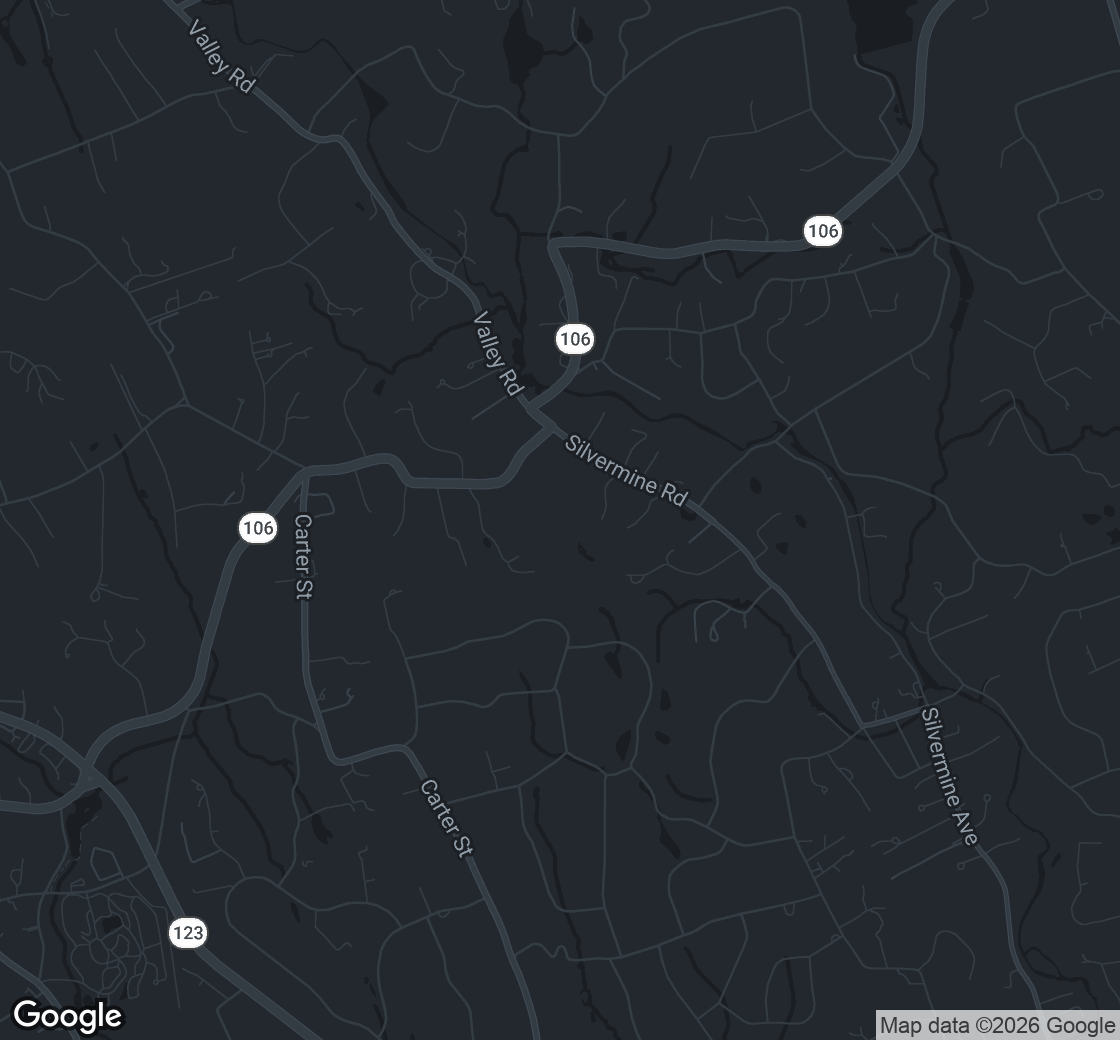
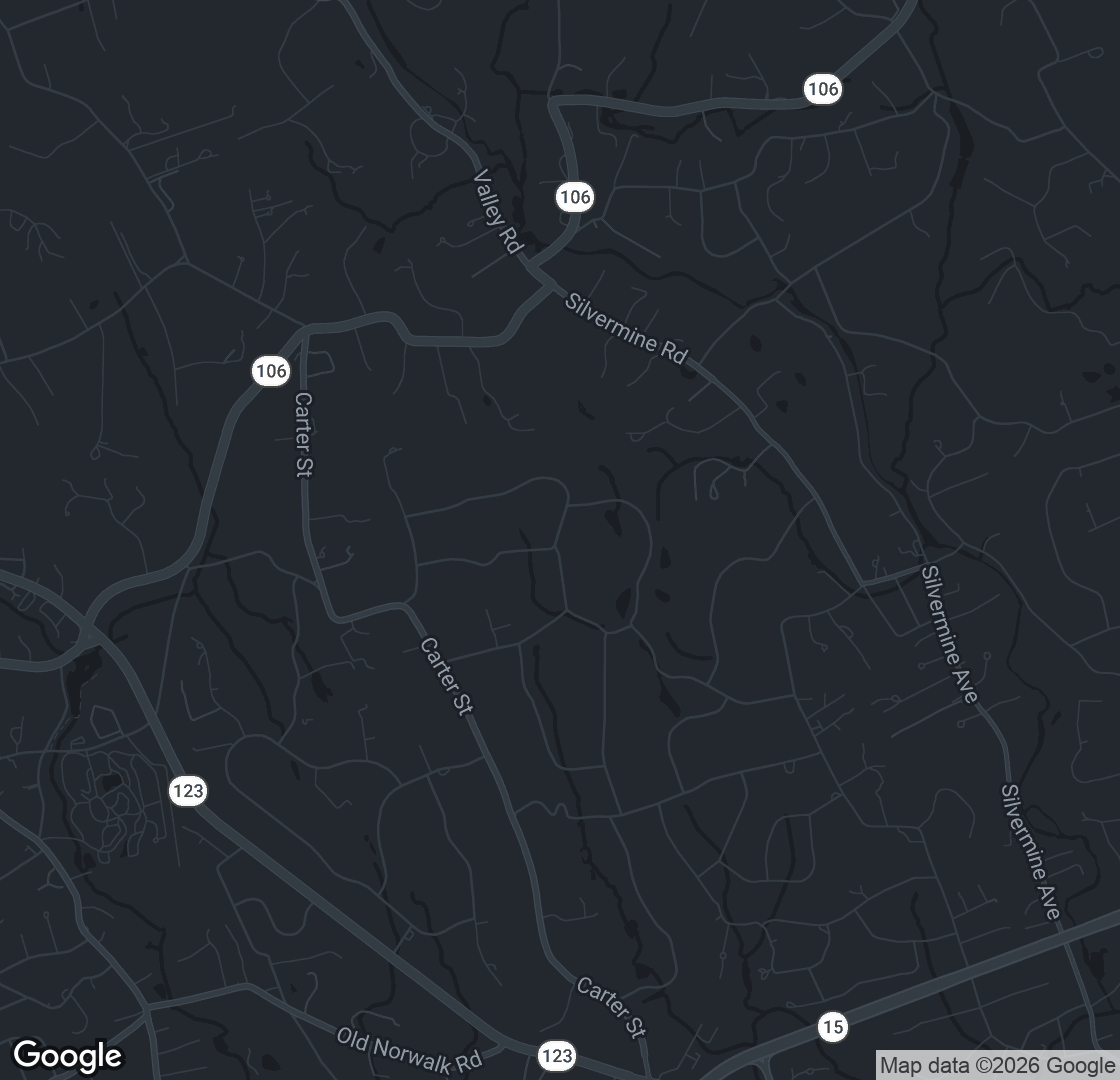
The three times on the loop itself
Fill dwell at the hydrant, dump dwell at the pond, and travel on the run — an
officer should not have to read a table to see where the minutes go.

diff --git a/public/demo/surfaces.html b/public/demo/surfaces.html
@@ -212,6 +212,31 @@ svg{display:block;width:100%;height:auto;background:var(--sunk);border-radius:4p
 .rn span,.rp span{font-size:9px;color:var(--ink3);letter-spacing:.06em}
 .rh{flex:1;min-width:56px;text-align:center;font-family:var(--mono);font-size:12px;font-weight:700;
   color:var(--ink2);border-top:3px solid #EF8200;padding-top:5px;margin:0 2px}
+.scrim{position:fixed;inset:0;background:rgba(10,12,15,.6);opacity:0;pointer-events:none;transition:opacity .18s;z-index:40}
+.scrim.on{opacity:1;pointer-events:auto}
+.drawer{position:fixed;top:0;right:0;height:100%;width:min(520px,94vw);background:var(--panel);
+  border-left:1px solid var(--rule2);transform:translateX(100%);transition:transform .2s ease;
+  z-index:41;overflow-y:auto;padding:16px 18px 40px}
+.drawer.on{transform:none}
+.dhead{display:flex;justify-content:space-between;align-items:flex-start;border-bottom:1px solid var(--rule);padding-bottom:11px;margin-bottom:13px}
+.dtitle{font-family:var(--mono);font-size:14px;font-weight:700;letter-spacing:.06em}
+.dsub{font-size:11px;color:var(--ink3);margin-top:3px}
+.dclose{background:none;border:0;color:var(--ink3);font-size:24px;cursor:pointer;line-height:1}
+.dsec{font-family:var(--mono);font-size:10.5px;letter-spacing:.1em;color:var(--ink2);margin:15px 0 7px;display:flex;align-items:center;gap:7px}
+.dt{margin-left:auto;color:var(--ink3);font-size:10px}
+.dby{font-size:8.5px;padding:2px 5px;border-radius:2px;letter-spacing:.06em}
+.dby.code{background:rgba(140,193,210,.13);color:var(--ink3)}
+.dby.astra{background:rgba(239,130,0,.16);color:var(--orange)}
+.dby.sol{background:rgba(123,94,167,.2);color:#a08cc4}
+.dtool{font-family:var(--mono);font-size:10.5px;color:var(--ink3);padding:3px 0 3px 9px;border-left:2px solid var(--rule);line-height:1.45}
+.dpick{font-size:12px;padding:6px 0 6px 9px;border-left:2px solid var(--orange);margin-bottom:3px}
+.dpick b{font-family:var(--mono);color:var(--ink2);margin-right:7px}
+.dg{display:block;font-family:var(--mono);font-size:9.5px;color:var(--ink3);margin-top:2px}
+.dchk{font-family:var(--mono);font-size:11px;padding:5px 9px;border-radius:3px;margin-bottom:4px;background:var(--sunk)}
+.dchk.bad{color:#e08a78}.dchk.warn{color:var(--orange)}.dchk.ok{color:var(--green)}
+.dch{font-size:12px;padding:8px 10px;border-radius:3px;margin-bottom:6px;line-height:1.45}
+.dch.block{background:rgba(200,85,61,.13);border:1px solid var(--red);color:#e8a091}
+.dch.q{background:var(--sunk);border:1px solid var(--rule2);color:var(--ink2)}
 .alarm{margin-top:11px;background:rgba(200,85,61,.12);border:1px solid var(--red);color:#e8a091;
   border-radius:4px;padding:9px 12px;font-size:12.5px;line-height:1.45}
 .laypair{display:flex;gap:12px;align-items:flex-end;margin-top:4px}
@@ -414,23 +439,26 @@ details[open].card summary::after{content:"  \2212"}
     <div class="card">
       <h2>The loop</h2>
       <div class="maplay">
-        <img src="shuttle-map.png" alt="The one-way tanker loop: Valley Rd, Silvermine, Heather, Carter, back to Silvermine">
-        <svg viewBox="0 0 560 520" class="ov">
-          <path d="M258.8 205.4 L262.3 208.7 L265.4 211.7 L269.2 214.8 L276.7 220.6 L286.0 227.4 L293.2 231.7 L301.7 236.2 L314.4 243.2 L322.1 246.5 L333.4 250.9 L334.8 251.5 L339.4 254.4 L342.0 256.2 L347.6 259.4 L349.6 252.4 L344.4 257.6 L353.0 264.4 L355.8 266.9 L363.2 273.3 L368.0 278.3 L370.0 280.7 L371.2 282.9 L374.6 288.0 L379.8 293.6 L385.6 298.4 L388.2 301.2 L389.4 302.8 L391.9 306.7 L394.9 310.9 L399.6 316.4 L402.7 320.8 L407.9 318.6 L411.7 314.4 L408.2 309.5 L402.3 302.4 L398.4 296.4 L395.5 292.9 L393.0 290.3 L390.1 287.8 L383.8 281.9 L382.7 280.7 L379.1 274.4 L376.1 270.9 L372.7 267.3 L367.1 262.1 L359.9 255.9 L351.8 249.6 L348.3 247.1 L345.5 245.2 L340.3 241.9 L337.5 240.6 L326.2 236.3 L319.4 233.4 L307.0 226.5 L298.5 222.1 L292.2 218.3 L283.3 211.8 L281.5 210.3 L275.1 207.3 L269.4 211.1 L265.9 214.3 L261.7 218.0 L258.1 221.1 L255.5 224.1 L253.0 228.5 L250.8 232.2 L249.4 234.1 L247.4 235.4 L245.6 235.6 L234.5 235.8 L218.0 235.5 L209.0 235.5 L207.6 235.3 L207.0 235.2 L207.0 235.0 L206.7 234.7 L204.3 230.5 L202.5 227.9 L200.2 225.6 L197.7 224.1 L194.2 223.1 L189.9 223.1 L185.4 223.9 L172.1 227.8 L166.9 228.7 L164.5 228.8 L155.6 229.2 L152.1 236.3 L157.4 240.1 L165.0 239.8 L168.5 239.6 L174.9 238.4 L188.2 234.5 L190.9 234.1 L192.9 234.0 L193.6 234.3 L193.1 234.0 L194.0 234.9 L194.9 236.3 L197.4 240.5 L199.0 242.6 L201.8 244.9 L205.4 246.0 L208.3 246.4 L210.0 246.5 L217.8 246.5 L234.4 246.8 L246.1 246.6 L251.5 245.6 L256.7 242.3 L260.0 238.3 L262.5 234.0 L264.6 230.3 L265.7 229.1 L276.8 219.2 L281.0 212.3 L276.1 206.2 L272.7 203.4 L267.4 198.4 L266.5 197.5" stroke="#EF8200" stroke-width="6" fill="none" stroke-linejoin="round"/>
-          <g transform="translate(347.6,259.4) rotate(-26.4)"><path d="M-11 -9 L13 0 L-11 9 Z" fill="#EF8200"/></g><g transform="translate(382.7,280.7) rotate(-122.5)"><path d="M-11 -9 L13 0 L-11 9 Z" fill="#EF8200"/></g><g transform="translate(249.4,234.1) rotate(136.9)"><path d="M-11 -9 L13 0 L-11 9 Z" fill="#EF8200"/></g><g transform="translate(190.9,234.1) rotate(-5.7)"><path d="M-11 -9 L13 0 L-11 9 Z" fill="#EF8200"/></g><g transform="translate(265.7,229.1) rotate(-42.3)"><path d="M-11 -9 L13 0 L-11 9 Z" fill="#EF8200"/></g>
-          <circle cx="262.5" cy="201.4" r="10" fill="#c8553d" stroke="#1c1f25" stroke-width="3"/>
-          <circle cx="348.8" cy="251.8" r="10" fill="#5aabb3" stroke="#1c1f25" stroke-width="3"/>
-          <circle cx="407.9" cy="318.6" r="6" fill="#8f9aa4" stroke="#1c1f25" stroke-width="2"/>
-          <circle cx="152.1" cy="236.3" r="6" fill="#8f9aa4" stroke="#1c1f25" stroke-width="2"/>
+        <img src="shuttle-map.png" alt="The one-way tanker loop through Heather, Weeburn, Snowberry, Buttery and Carter">
+        <svg viewBox="0 0 560 540" class="ov">
+          <path d="M259.1 135.0 L262.7 138.4 L265.8 141.3 L269.6 144.4 L277.0 150.2 L286.4 157.0 L293.5 161.3 L302.1 165.8 L314.8 172.9 L322.5 176.1 L333.8 180.5 L335.2 181.1 L339.8 184.0 L342.4 185.8 L347.9 189.0 L349.9 182.0 L344.7 187.2 L353.3 194.1 L356.2 196.5 L363.5 202.9 L368.4 207.9 L370.4 210.3 L371.6 212.5 L375.0 217.7 L380.2 223.2 L385.9 228.0 L388.5 230.9 L389.8 232.4 L392.3 236.3 L395.2 240.5 L399.9 246.0 L403.1 250.4 L403.2 246.2 L403.2 245.2 L400.2 247.6 L397.2 250.7 L395.1 253.2 L391.8 258.1 L388.7 263.0 L386.6 266.4 L383.3 272.2 L382.1 273.9 L381.2 274.9 L382.0 274.5 L380.9 274.4 L374.9 273.7 L369.7 274.3 L365.5 275.8 L361.1 278.9 L356.8 283.1 L353.9 287.9 L352.4 292.6 L350.9 301.3 L350.0 306.8 L349.9 311.1 L350.5 314.5 L352.9 326.0 L353.4 328.4 L353.6 329.3 L352.7 332.5 L351.1 335.5 L349.3 345.9 L359.5 351.6 L356.6 350.5 L356.6 350.5 L356.3 350.8 L350.8 352.3 L347.9 352.8 L343.6 353.4 L340.4 354.8 L336.0 357.5 L332.8 360.4 L330.1 364.5 L329.1 368.9 L329.0 373.0 L329.7 378.4 L332.4 385.9 L336.1 396.6 L338.8 392.2 L332.4 394.6 L322.4 398.1 L311.8 401.5 L309.7 402.3 L307.9 402.3 L304.5 402.9 L302.8 402.9 L299.5 402.7 L295.8 402.9 L288.1 403.5 L286.4 403.4 L287.5 403.8 L288.3 404.6 L288.9 405.6 L287.6 401.4 L284.7 397.8 L279.2 396.7 L274.8 399.6 L273.0 403.4 L274.1 402.4 L278.4 402.2 L278.1 401.5 L275.8 398.7 L272.4 396.4 L268.1 395.3 L263.4 396.4 L257.3 400.3 L255.2 401.5 L258.0 402.4 L260.1 403.4 L258.9 399.4 L258.3 397.5 L256.5 392.4 L254.8 388.4 L248.6 375.5 L238.3 352.6 L236.1 348.2 L232.3 341.9 L213.8 309.5 L209.2 302.3 L205.7 299.2 L200.8 297.3 L196.5 297.4 L193.0 298.1 L186.5 299.8 L177.6 302.7 L171.1 304.6 L170.6 304.7 L170.4 304.5 L171.0 305.2 L169.9 302.8 L165.5 288.4 L163.8 283.9 L160.7 273.6 L159.2 268.7 L158.5 262.7 L158.4 257.7 L158.3 251.7 L157.9 241.1 L157.9 230.7 L157.8 217.4 L157.2 184.7 L157.3 180.2 L157.9 174.7 L158.4 170.8 L158.5 166.9 L156.0 170.1 L157.7 169.7 L165.4 169.4 L168.8 169.2 L175.2 168.0 L188.6 164.1 L191.3 163.7 L193.3 163.7 L194.0 163.9 L193.5 163.6 L194.3 164.5 L195.3 165.9 L197.7 170.1 L199.3 172.2 L202.2 174.5 L205.7 175.7 L208.7 176.1 L210.3 176.1 L218.2 176.1 L234.8 176.4 L246.5 176.2 L251.9 175.2 L257.1 171.9 L260.3 167.9 L262.9 163.6 L265.0 159.9 L266.0 158.7 L277.1 148.8 L281.4 141.9 L276.5 135.8 L273.0 133.0 L267.7 128.1 L266.8 127.1" stroke="#EF8200" stroke-width="6" fill="none" stroke-linejoin="round"/>
+          <g transform="translate(347.9,189.0) rotate(-26.4)"><path d="M-11 -9 L13 0 L-11 9 Z" fill="#EF8200"/></g><g transform="translate(381.2,274.9) rotate(100.8)"><path d="M-11 -9 L13 0 L-11 9 Z" fill="#EF8200"/></g><g transform="translate(329.0,373.0) rotate(86.3)"><path d="M-11 -9 L13 0 L-11 9 Z" fill="#EF8200"/></g><g transform="translate(255.2,401.5) rotate(70.6)"><path d="M-11 -9 L13 0 L-11 9 Z" fill="#EF8200"/></g><g transform="translate(157.9,230.7) rotate(-90.3)"><path d="M-11 -9 L13 0 L-11 9 Z" fill="#EF8200"/></g><g transform="translate(246.5,176.2) rotate(-3.9)"><path d="M-11 -9 L13 0 L-11 9 Z" fill="#EF8200"/></g>
+          <circle cx="262.9" cy="131.0" r="10" fill="#c8553d" stroke="#1c1f25" stroke-width="3"/>
+          <circle cx="349.1" cy="181.5" r="10" fill="#5aabb3" stroke="#1c1f25" stroke-width="3"/>
+          <circle cx="408.3" cy="248.3" r="5" fill="#8f9aa4"/>
+          <circle cx="329.5" cy="401.7" r="5" fill="#8f9aa4"/>
+          <circle cx="152.4" cy="165.9" r="5" fill="#8f9aa4"/>
           <g class="mk">
-            <text x="248" y="197" text-anchor="end" style="fill:#e08a78">DUMP</text>
-            <text x="248" y="211" text-anchor="end" class="mkS">closed Valley Rd</text>
-            <text x="364" y="250" style="fill:#5aabb3">FILL 1-18</text>
-            <text x="364" y="264" class="mkS">856 gpm</text>
-            <text x="419" y="323" class="mkS">HEATHER</text>
-            <text x="141" y="240" text-anchor="end" class="mkS">CARTER</text>
-            <text x="14" y="24">ONE WAY &middot; 2.99 mi</text>
-            <text x="14" y="42" class="mkS">always forward &middot; never reverse, never pass</text>
+            <text x="248" y="128" text-anchor="end" style="fill:#e08a78">DUMP</text>
+            <text x="248" y="142" text-anchor="end" class="mkS">closed Valley Rd</text>
+            <text x="364" y="179" style="fill:#5aabb3">FILL 1-18</text>
+            <text x="364" y="193" class="mkS">856 gpm</text>
+            <text x="418" y="252" class="mkS">HEATHER</text>
+            <text x="329" y="418" text-anchor="middle" class="mkS">BUTTERY</text>
+            <text x="142" y="170" text-anchor="end" class="mkS">CARTER</text>
+            <text x="14" y="24">ONE WAY &middot; 4.27 mi</text>
+            <text x="14" y="42" class="mkS">Silvermine &middot; Heather &middot; Weeburn &middot; Snowberry &middot; Buttery &middot; Carter</text>
+            <text x="14" y="58" class="mkS">always forward &middot; never reverse, never pass</text>
           </g>
         </svg>
       </div>
@@ -442,22 +470,22 @@ details[open].card summary::after{content:"  \2212"}
       <div class="card" style="margin-bottom:14px">
         <h2>Turnaround</h2>
         <div class="two">
-          <div><div class="tv">4</div><div class="tk">TANKERS</div></div>
-          <div><div class="tv">13.3</div><div class="tk">MIN LOOP</div></div>
+          <div><div class="tv">5</div><div class="tk">TANKERS</div></div>
+          <div><div class="tv">16.5</div><div class="tk">MIN LOOP</div></div>
         </div>
-        <div class="tsub">753 gpm delivered &middot; 680 needed &middot; margin +73</div>
+        <div class="tsub">757 gpm delivered &middot; 680 needed &middot; five tankers</div>
       </div>
       <div class="card">
         <h2>The cycle &middot; every row from a rate</h2>
         <table>
           <tr><th>leg</th><th class="r">min</th><th class="dim">from</th></tr>
-          <tr><td>travel, the whole loop</td><td class="r">6.70</td><td class="dim">routed, 2.99 mi</td></tr>
+          <tr><td>travel, the whole loop</td><td class="r">9.93</td><td class="dim">routed, 4.27 mi</td></tr>
           <tr><td>fill at 1-18</td><td class="r">2.92</td><td class="dim">2,500 &divide; 856 gpm</td></tr>
           <tr><td>dump into the pond</td><td class="r">1.67</td><td class="dim">2,500 &divide; 1,500 gpm</td></tr>
           <tr><td>manoeuvre, both ends</td><td class="r">2.00</td><td class="dim">60 s each</td></tr>
-          <tr><td><b>LOOP</b></td><td class="r"><b>13.29</b></td><td class="dim">the sum</td></tr>
+          <tr><td><b>LOOP</b></td><td class="r"><b>16.52</b></td><td class="dim">the sum</td></tr>
         </table>
-        <div class="tsub">one tanker = 2,500 &divide; 13.29 = <b>188 gpm</b></div>
+        <div class="tsub">one tanker = 2,500 &divide; 16.52 = <b>151 gpm</b></div>
         <table style="margin-top:10px">
           <tr><th>tankers</th><th class="r">gpm</th><th class="r">hydrant busy</th></tr>
           <tr><td>3</td><td class="r bad">564</td><td class="r">66%</td></tr>
@@ -534,6 +562,49 @@ details[open].card summary::after{content:"  \2212"}
   </div>
 </section>
 
+<div class="scrim" id="scrim"></div>
+<aside class="drawer" id="drawer" aria-label="What happened in the first 80 seconds">
+  <div class="dhead">
+    <div><div class="dtitle">THE FIRST 80 SECONDS</div>
+      <div class="dsub">proposed by gpt-6-astra &middot; challenged by gpt-5.6-sol in a clean context</div></div>
+    <button class="dclose" id="dclose">&times;</button>
+  </div>
+
+  <div class="dsec">1 &middot; ASSEMBLE <span class="dby code">CODE</span><span class="dt">0.6 s</span></div>
+  <div class="dtool">96 facts from Firestore, each with a unit and a source</div>
+  <div class="dtool">route(dump, fill) &rarr; 2.99 mi loop &middot; F.RT.loop</div>
+  <div class="dtool">hydrant_side_of_road(1-18) &rarr; LEFT &middot; 7.1 m &middot; F.HYD.1-18.side</div>
+  <div class="dtool">vision(satellite) &rarr; driveway traced, 20 vertices &middot; F.SITE.drive_polyline</div>
+
+  <div class="dsec">2 &middot; PROPOSE <span class="dby astra">GPT-6 ASTRA</span><span class="dt">88.9 s</span></div>
+  <div class="dpick"><b>supply_mode</b> shuttle_nurse
+    <span class="dg">F.HYD.1-21.status &middot; F.APP.hose_first_alarm_ft &middot; F.RT.loop.cycle_min</span></div>
+  <div class="dpick"><b>lay_side_drive</b> <span class="warn">NEEDS A MEASUREMENT</span>
+    <span class="dg">missing: F.SITE.drive_edge_clearances, F.SITE.pump_connection_side</span></div>
+  <div class="dpick"><b>lay_side_street</b> <span class="warn">NEEDS A MEASUREMENT</span>
+    <span class="dg">missing: F.SITE.drive_side_of_street</span></div>
+
+  <div class="dsec">3 &middot; CHECK <span class="dby code">CODE</span><span class="dt">0.001 s</span></div>
+  <div class="dchk bad">BLOCK &nbsp;hydrant &mdash; 1-21 red-tagged, 1-07 and 1-09 under 680 gpm</div>
+  <div class="dchk warn">UNGRADED &nbsp;draft &mdash; static lift not surveyed &middot; NFPA 1142 caps at 10 ft</div>
+  <div class="dchk ok">PASS &nbsp;shuttle &mdash; 753 gpm against 680 on four tankers</div>
+
+  <div class="dsec">4 &middot; CHALLENGE <span class="dby sol">GPT-5.6-SOL &middot; CLEAN CONTEXT</span><span class="dt">48.1 s</span></div>
+  <div class="dch block"><b>BLOCK &middot; C7_delivery_exceeds_source</b><br>
+    A closed shuttle cannot deliver more than its fill source replenishes. 949 gpm was claimed
+    against a source tested at 855.87 gpm.
+    <span class="dg">F.HYD.1-18.gpm &middot; F.RT.dump.delivered_gpm</span></div>
+  <div class="dch q"><b>QUESTION &middot; C6_stale_as_current</b><br>
+    That 855.87 figure is 696 days old and is the sole numerical basis for the fill site.
+    <span class="dg">F.HYD.1-18.flow_test_days</span></div>
+  <div class="dch q"><b>BLOCK &middot; C5_synthetic_as_measured</b><br>
+    Every tanker capacity is SYNTHETIC. The count is derived from an assumed 2,500 gal.
+    <span class="dg">F.TANKER.capacity_source</span></div>
+
+  <div class="dsec">5 &middot; PRESENT <span class="dby code">CODE</span><span class="dt">0 s</span></div>
+  <div class="dtool">overall_status: BLOCK &middot; 7 code checks &middot; 4 challenges kept</div>
+  <div class="dtool">a refused pick renders NEEDS A MEASUREMENT, never a blank and never a guess</div>
+</aside>
 <script>
 document.querySelectorAll('.tab').forEach(function(t){
   t.addEventListener('click',function(){

diff --git a/public/demo/index.html b/public/demo/index.html
@@ -237,6 +237,7 @@ svg{display:block;width:100%;height:auto;background:var(--sunk);border-radius:4p
 .dch{font-size:12px;padding:8px 10px;border-radius:3px;margin-bottom:6px;line-height:1.45}
 .dch.block{background:rgba(200,85,61,.13);border:1px solid var(--red);color:#e8a091}
 .dch.q{background:var(--sunk);border:1px solid var(--rule2);color:var(--ink2)}
+.tm{font-family:var(--mono);font-size:12px;font-weight:700;fill:#EF8200}
 .alarm{margin-top:11px;background:rgba(200,85,61,.12);border:1px solid var(--red);color:#e8a091;
   border-radius:4px;padding:9px 12px;font-size:12.5px;line-height:1.45}
 .laypair{display:flex;gap:12px;align-items:flex-end;margin-top:4px}
@@ -439,23 +440,30 @@ details[open].card summary::after{content:"  \2212"}
     <div class="card">
       <h2>The loop</h2>
       <div class="maplay">
-        <img src="shuttle-map.png" alt="The one-way tanker loop: Valley Rd, Silvermine, Heather, Carter, back to Silvermine">
-        <svg viewBox="0 0 560 520" class="ov">
-          <path d="M258.8 205.4 L262.3 208.7 L265.4 211.7 L269.2 214.8 L276.7 220.6 L286.0 227.4 L293.2 231.7 L301.7 236.2 L314.4 243.2 L322.1 246.5 L333.4 250.9 L334.8 251.5 L339.4 254.4 L342.0 256.2 L347.6 259.4 L349.6 252.4 L344.4 257.6 L353.0 264.4 L355.8 266.9 L363.2 273.3 L368.0 278.3 L370.0 280.7 L371.2 282.9 L374.6 288.0 L379.8 293.6 L385.6 298.4 L388.2 301.2 L389.4 302.8 L391.9 306.7 L394.9 310.9 L399.6 316.4 L402.7 320.8 L407.9 318.6 L411.7 314.4 L408.2 309.5 L402.3 302.4 L398.4 296.4 L395.5 292.9 L393.0 290.3 L390.1 287.8 L383.8 281.9 L382.7 280.7 L379.1 274.4 L376.1 270.9 L372.7 267.3 L367.1 262.1 L359.9 255.9 L351.8 249.6 L348.3 247.1 L345.5 245.2 L340.3 241.9 L337.5 240.6 L326.2 236.3 L319.4 233.4 L307.0 226.5 L298.5 222.1 L292.2 218.3 L283.3 211.8 L281.5 210.3 L275.1 207.3 L269.4 211.1 L265.9 214.3 L261.7 218.0 L258.1 221.1 L255.5 224.1 L253.0 228.5 L250.8 232.2 L249.4 234.1 L247.4 235.4 L245.6 235.6 L234.5 235.8 L218.0 235.5 L209.0 235.5 L207.6 235.3 L207.0 235.2 L207.0 235.0 L206.7 234.7 L204.3 230.5 L202.5 227.9 L200.2 225.6 L197.7 224.1 L194.2 223.1 L189.9 223.1 L185.4 223.9 L172.1 227.8 L166.9 228.7 L164.5 228.8 L155.6 229.2 L152.1 236.3 L157.4 240.1 L165.0 239.8 L168.5 239.6 L174.9 238.4 L188.2 234.5 L190.9 234.1 L192.9 234.0 L193.6 234.3 L193.1 234.0 L194.0 234.9 L194.9 236.3 L197.4 240.5 L199.0 242.6 L201.8 244.9 L205.4 246.0 L208.3 246.4 L210.0 246.5 L217.8 246.5 L234.4 246.8 L246.1 246.6 L251.5 245.6 L256.7 242.3 L260.0 238.3 L262.5 234.0 L264.6 230.3 L265.7 229.1 L276.8 219.2 L281.0 212.3 L276.1 206.2 L272.7 203.4 L267.4 198.4 L266.5 197.5" stroke="#EF8200" stroke-width="6" fill="none" stroke-linejoin="round"/>
-          <g transform="translate(347.6,259.4) rotate(-26.4)"><path d="M-11 -9 L13 0 L-11 9 Z" fill="#EF8200"/></g><g transform="translate(382.7,280.7) rotate(-122.5)"><path d="M-11 -9 L13 0 L-11 9 Z" fill="#EF8200"/></g><g transform="translate(249.4,234.1) rotate(136.9)"><path d="M-11 -9 L13 0 L-11 9 Z" fill="#EF8200"/></g><g transform="translate(190.9,234.1) rotate(-5.7)"><path d="M-11 -9 L13 0 L-11 9 Z" fill="#EF8200"/></g><g transform="translate(265.7,229.1) rotate(-42.3)"><path d="M-11 -9 L13 0 L-11 9 Z" fill="#EF8200"/></g>
-          <circle cx="262.5" cy="201.4" r="10" fill="#c8553d" stroke="#1c1f25" stroke-width="3"/>
-          <circle cx="348.8" cy="251.8" r="10" fill="#5aabb3" stroke="#1c1f25" stroke-width="3"/>
-          <circle cx="407.9" cy="318.6" r="6" fill="#8f9aa4" stroke="#1c1f25" stroke-width="2"/>
-          <circle cx="152.1" cy="236.3" r="6" fill="#8f9aa4" stroke="#1c1f25" stroke-width="2"/>
+        <img src="shuttle-map.png" alt="The one-way tanker loop through Heather, Weeburn, Snowberry, Buttery and Carter">
+        <svg viewBox="0 0 560 540" class="ov">
+          <path d="M259.1 135.0 L262.7 138.4 L265.8 141.3 L269.6 144.4 L277.0 150.2 L286.4 157.0 L293.5 161.3 L302.1 165.8 L314.8 172.9 L322.5 176.1 L333.8 180.5 L335.2 181.1 L339.8 184.0 L342.4 185.8 L347.9 189.0 L349.9 182.0 L344.7 187.2 L353.3 194.1 L356.2 196.5 L363.5 202.9 L368.4 207.9 L370.4 210.3 L371.6 212.5 L375.0 217.7 L380.2 223.2 L385.9 228.0 L388.5 230.9 L389.8 232.4 L392.3 236.3 L395.2 240.5 L399.9 246.0 L403.1 250.4 L403.2 246.2 L403.2 245.2 L400.2 247.6 L397.2 250.7 L395.1 253.2 L391.8 258.1 L388.7 263.0 L386.6 266.4 L383.3 272.2 L382.1 273.9 L381.2 274.9 L382.0 274.5 L380.9 274.4 L374.9 273.7 L369.7 274.3 L365.5 275.8 L361.1 278.9 L356.8 283.1 L353.9 287.9 L352.4 292.6 L350.9 301.3 L350.0 306.8 L349.9 311.1 L350.5 314.5 L352.9 326.0 L353.4 328.4 L353.6 329.3 L352.7 332.5 L351.1 335.5 L349.3 345.9 L359.5 351.6 L356.6 350.5 L356.6 350.5 L356.3 350.8 L350.8 352.3 L347.9 352.8 L343.6 353.4 L340.4 354.8 L336.0 357.5 L332.8 360.4 L330.1 364.5 L329.1 368.9 L329.0 373.0 L329.7 378.4 L332.4 385.9 L336.1 396.6 L338.8 392.2 L332.4 394.6 L322.4 398.1 L311.8 401.5 L309.7 402.3 L307.9 402.3 L304.5 402.9 L302.8 402.9 L299.5 402.7 L295.8 402.9 L288.1 403.5 L286.4 403.4 L287.5 403.8 L288.3 404.6 L288.9 405.6 L287.6 401.4 L284.7 397.8 L279.2 396.7 L274.8 399.6 L273.0 403.4 L274.1 402.4 L278.4 402.2 L278.1 401.5 L275.8 398.7 L272.4 396.4 L268.1 395.3 L263.4 396.4 L257.3 400.3 L255.2 401.5 L258.0 402.4 L260.1 403.4 L258.9 399.4 L258.3 397.5 L256.5 392.4 L254.8 388.4 L248.6 375.5 L238.3 352.6 L236.1 348.2 L232.3 341.9 L213.8 309.5 L209.2 302.3 L205.7 299.2 L200.8 297.3 L196.5 297.4 L193.0 298.1 L186.5 299.8 L177.6 302.7 L171.1 304.6 L170.6 304.7 L170.4 304.5 L171.0 305.2 L169.9 302.8 L165.5 288.4 L163.8 283.9 L160.7 273.6 L159.2 268.7 L158.5 262.7 L158.4 257.7 L158.3 251.7 L157.9 241.1 L157.9 230.7 L157.8 217.4 L157.2 184.7 L157.3 180.2 L157.9 174.7 L158.4 170.8 L158.5 166.9 L156.0 170.1 L157.7 169.7 L165.4 169.4 L168.8 169.2 L175.2 168.0 L188.6 164.1 L191.3 163.7 L193.3 163.7 L194.0 163.9 L193.5 163.6 L194.3 164.5 L195.3 165.9 L197.7 170.1 L199.3 172.2 L202.2 174.5 L205.7 175.7 L208.7 176.1 L210.3 176.1 L218.2 176.1 L234.8 176.4 L246.5 176.2 L251.9 175.2 L257.1 171.9 L260.3 167.9 L262.9 163.6 L265.0 159.9 L266.0 158.7 L277.1 148.8 L281.4 141.9 L276.5 135.8 L273.0 133.0 L267.7 128.1 L266.8 127.1" stroke="#EF8200" stroke-width="6" fill="none" stroke-linejoin="round"/>
+          <g transform="translate(347.9,189.0) rotate(-26.4)"><path d="M-11 -9 L13 0 L-11 9 Z" fill="#EF8200"/></g><g transform="translate(381.2,274.9) rotate(100.8)"><path d="M-11 -9 L13 0 L-11 9 Z" fill="#EF8200"/></g><g transform="translate(329.0,373.0) rotate(86.3)"><path d="M-11 -9 L13 0 L-11 9 Z" fill="#EF8200"/></g><g transform="translate(255.2,401.5) rotate(70.6)"><path d="M-11 -9 L13 0 L-11 9 Z" fill="#EF8200"/></g><g transform="translate(157.9,230.7) rotate(-90.3)"><path d="M-11 -9 L13 0 L-11 9 Z" fill="#EF8200"/></g><g transform="translate(246.5,176.2) rotate(-3.9)"><path d="M-11 -9 L13 0 L-11 9 Z" fill="#EF8200"/></g>
+          <circle cx="262.9" cy="131.0" r="10" fill="#c8553d" stroke="#1c1f25" stroke-width="3"/>
+          <circle cx="349.1" cy="181.5" r="10" fill="#5aabb3" stroke="#1c1f25" stroke-width="3"/>
+          <circle cx="408.3" cy="248.3" r="5" fill="#8f9aa4"/>
+          <circle cx="329.5" cy="401.7" r="5" fill="#8f9aa4"/>
+          <circle cx="152.4" cy="165.9" r="5" fill="#8f9aa4"/>
           <g class="mk">
-            <text x="248" y="197" text-anchor="end" style="fill:#e08a78">DUMP</text>
-            <text x="248" y="211" text-anchor="end" class="mkS">closed Valley Rd</text>
-            <text x="364" y="250" style="fill:#5aabb3">FILL 1-18</text>
-            <text x="364" y="264" class="mkS">856 gpm</text>
-            <text x="419" y="323" class="mkS">HEATHER</text>
-            <text x="141" y="240" text-anchor="end" class="mkS">CARTER</text>
-            <text x="14" y="24">ONE WAY &middot; 2.99 mi</text>
-            <text x="14" y="42" class="mkS">always forward &middot; never reverse, never pass</text>
+            <text x="248" y="128" text-anchor="end" style="fill:#e08a78">DUMP</text>
+            <text x="248" y="142" text-anchor="end" class="mkS">closed Valley Rd</text>
+            <text x="248" y="157" text-anchor="end" class="tm">DUMP 1.67 min</text>
+            <text x="364" y="179" style="fill:#5aabb3">FILL 1-18</text>
+            <text x="364" y="193" class="mkS">856 gpm</text>
+            <text x="364" y="208" class="tm">FILL 2.92 min</text>
+            <text x="418" y="252" class="mkS">HEATHER</text>
+            <text x="329" y="418" text-anchor="middle" class="mkS">BUTTERY</text>
+            <text x="142" y="170" text-anchor="end" class="mkS">CARTER</text>
+            <text x="14" y="24">ONE WAY &middot; 4.27 mi</text>
+            <text x="14" y="42" class="mkS">Silvermine &middot; Heather &middot; Weeburn &middot; Snowberry &middot; Buttery &middot; Carter</text>
+            <text x="14" y="58" class="tm">TRAVEL 9.90 min</text>
+            <text x="14" y="76" class="mkS">always forward &middot; never reverse, never pass</text>
+            <text x="14" y="94" class="tm">LOOP 16.52 min</text>
           </g>
         </svg>
       </div>
@@ -467,22 +475,22 @@ details[open].card summary::after{content:"  \2212"}
       <div class="card" style="margin-bottom:14px">
         <h2>Turnaround</h2>
         <div class="two">
-          <div><div class="tv">4</div><div class="tk">TANKERS</div></div>
-          <div><div class="tv">13.3</div><div class="tk">MIN LOOP</div></div>
+          <div><div class="tv">5</div><div class="tk">TANKERS</div></div>
+          <div><div class="tv">16.5</div><div class="tk">MIN LOOP</div></div>
         </div>
-        <div class="tsub">753 gpm delivered &middot; 680 needed &middot; margin +73</div>
+        <div class="tsub">757 gpm delivered &middot; 680 needed &middot; five tankers</div>
       </div>
       <div class="card">
         <h2>The cycle &middot; every row from a rate</h2>
         <table>
           <tr><th>leg</th><th class="r">min</th><th class="dim">from</th></tr>
-          <tr><td>travel, the whole loop</td><td class="r">6.70</td><td class="dim">routed, 2.99 mi</td></tr>
+          <tr><td>travel, the whole loop</td><td class="r">9.93</td><td class="dim">routed, 4.27 mi</td></tr>
           <tr><td>fill at 1-18</td><td class="r">2.92</td><td class="dim">2,500 &divide; 856 gpm</td></tr>
           <tr><td>dump into the pond</td><td class="r">1.67</td><td class="dim">2,500 &divide; 1,500 gpm</td></tr>
           <tr><td>manoeuvre, both ends</td><td class="r">2.00</td><td class="dim">60 s each</td></tr>
-          <tr><td><b>LOOP</b></td><td class="r"><b>13.29</b></td><td class="dim">the sum</td></tr>
+          <tr><td><b>LOOP</b></td><td class="r"><b>16.52</b></td><td class="dim">the sum</td></tr>
         </table>
-        <div class="tsub">one tanker = 2,500 &divide; 13.29 = <b>188 gpm</b></div>
+        <div class="tsub">one tanker = 2,500 &divide; 16.52 = <b>151 gpm</b></div>
         <table style="margin-top:10px">
           <tr><th>tankers</th><th class="r">gpm</th><th class="r">hydrant busy</th></tr>
           <tr><td>3</td><td class="r bad">564</td><td class="r">66%</td></tr>
